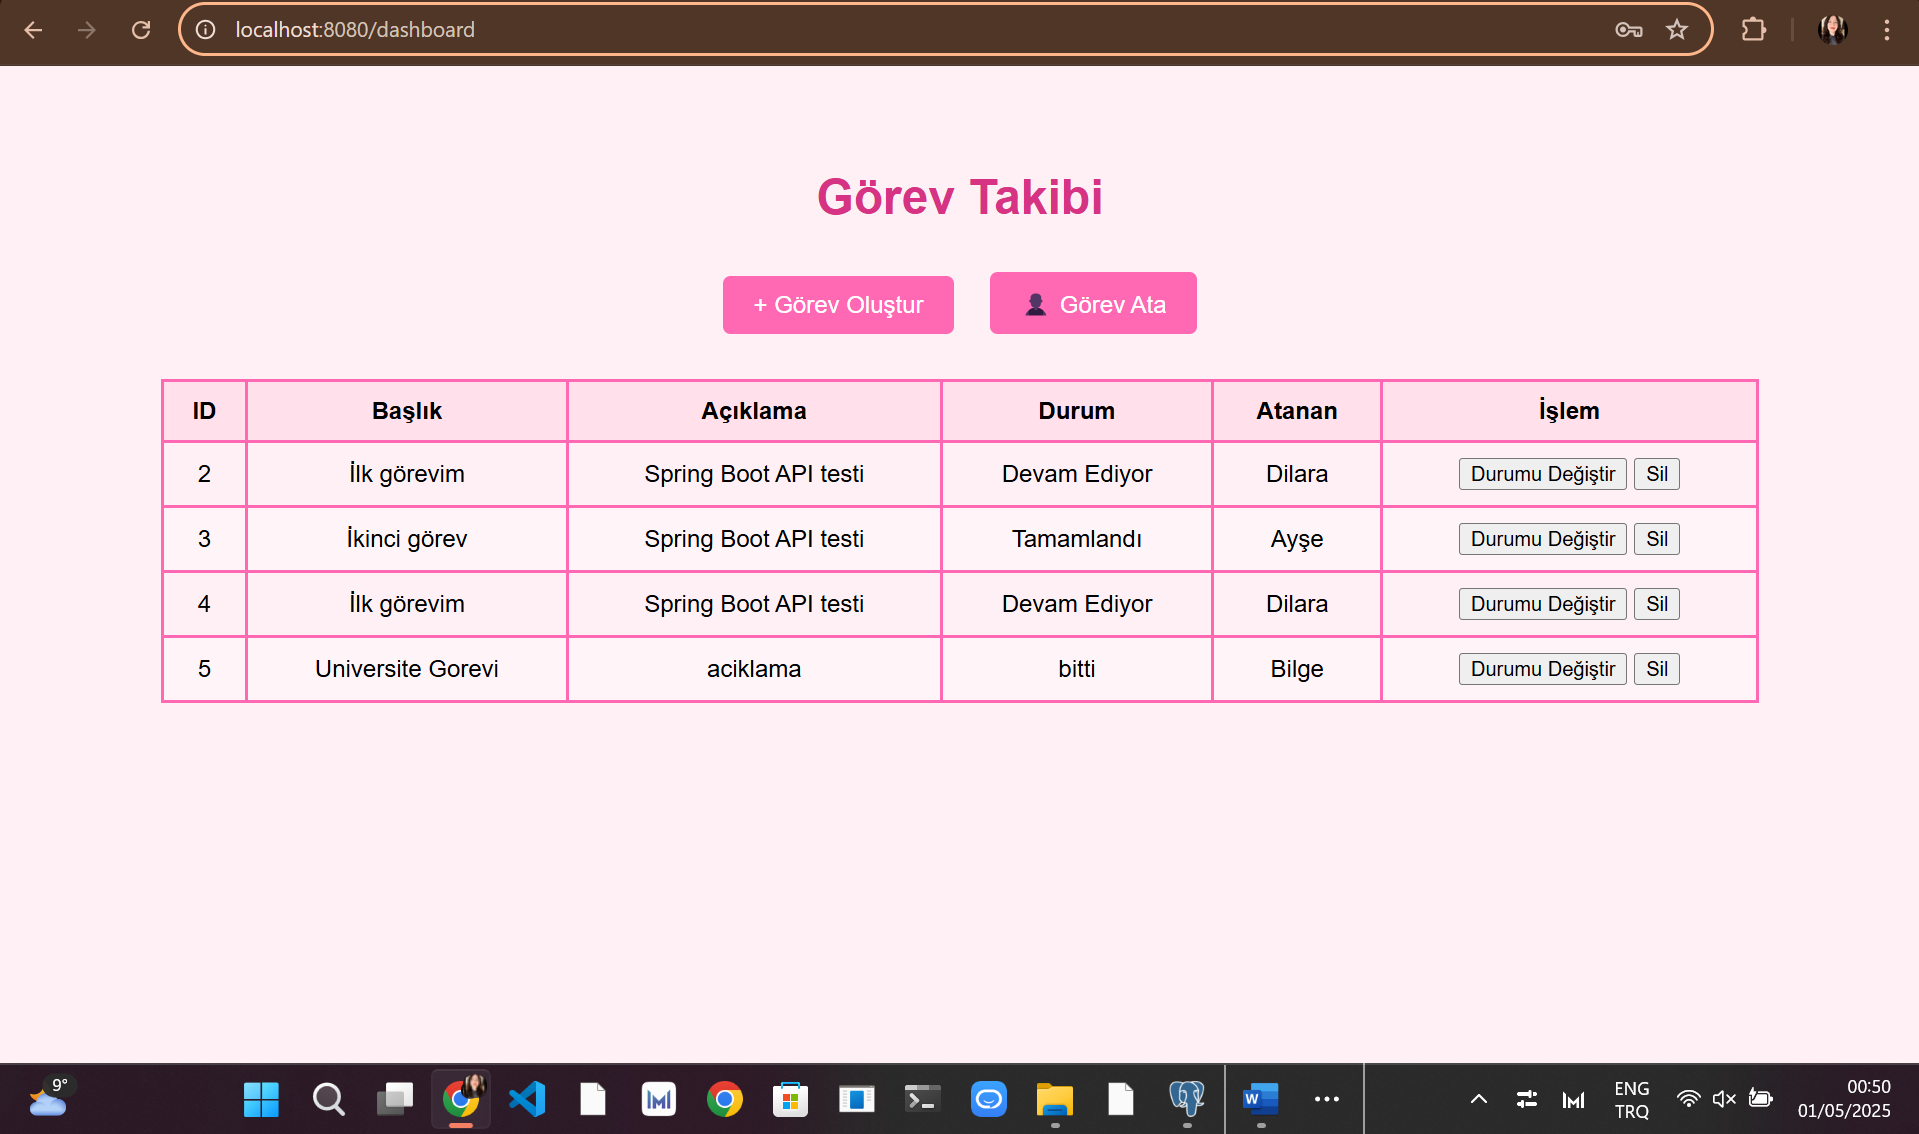
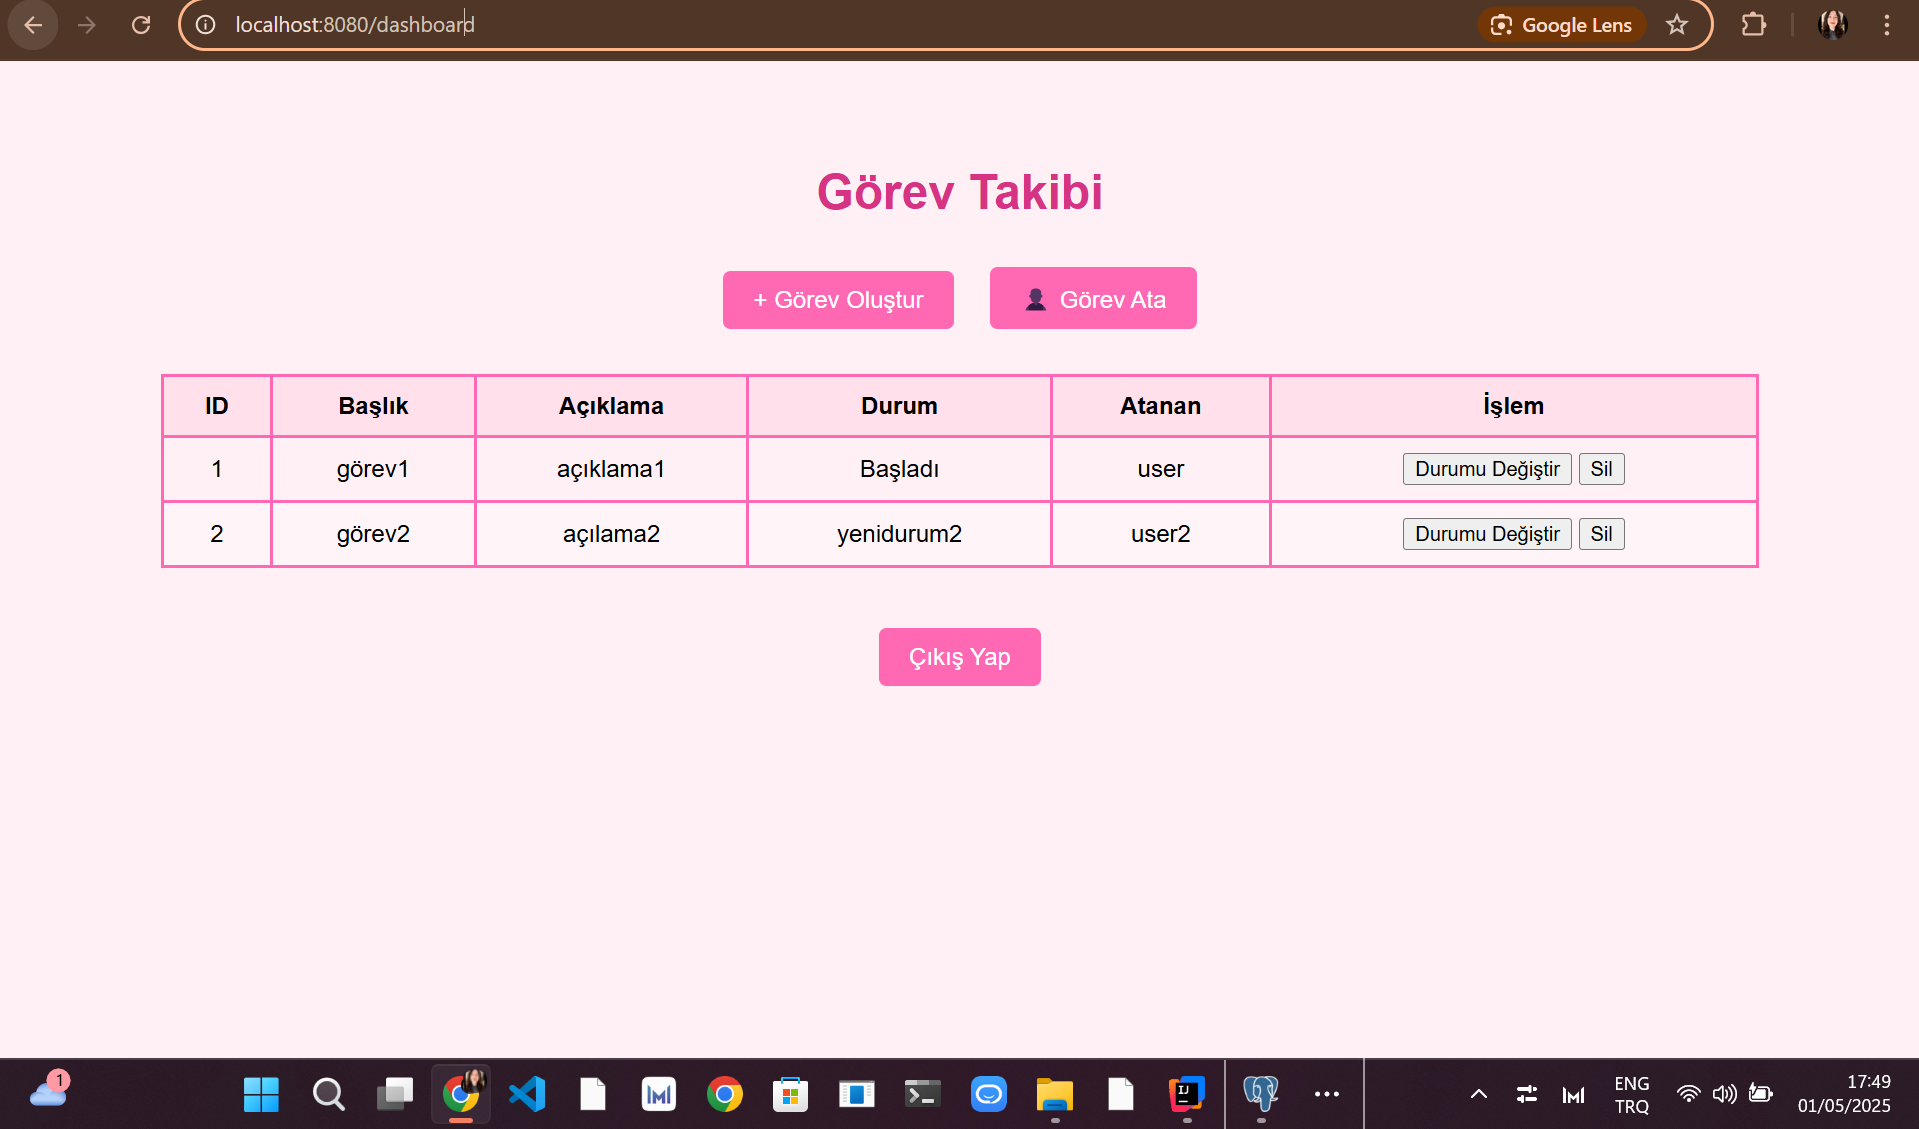
yeni ekran görüntüsü

diff --git a/README.md b/README.md
@@ -141,10 +141,7 @@ Her görev sadece bir kullanıcıya atanabilir (`assigned_to`), ancak bir kullan
 ![Dashboard](screenshots/gorevata.png)
 ![Dashboard](screenshots/yenidurum.png)
 ![Dashboard](screenshots/yenigorev.png)
-
-
-
-
+![Dashboard](screenshots/logout.png)
 
 
 ## 👤 Örnek Kullanım Senaryosu
